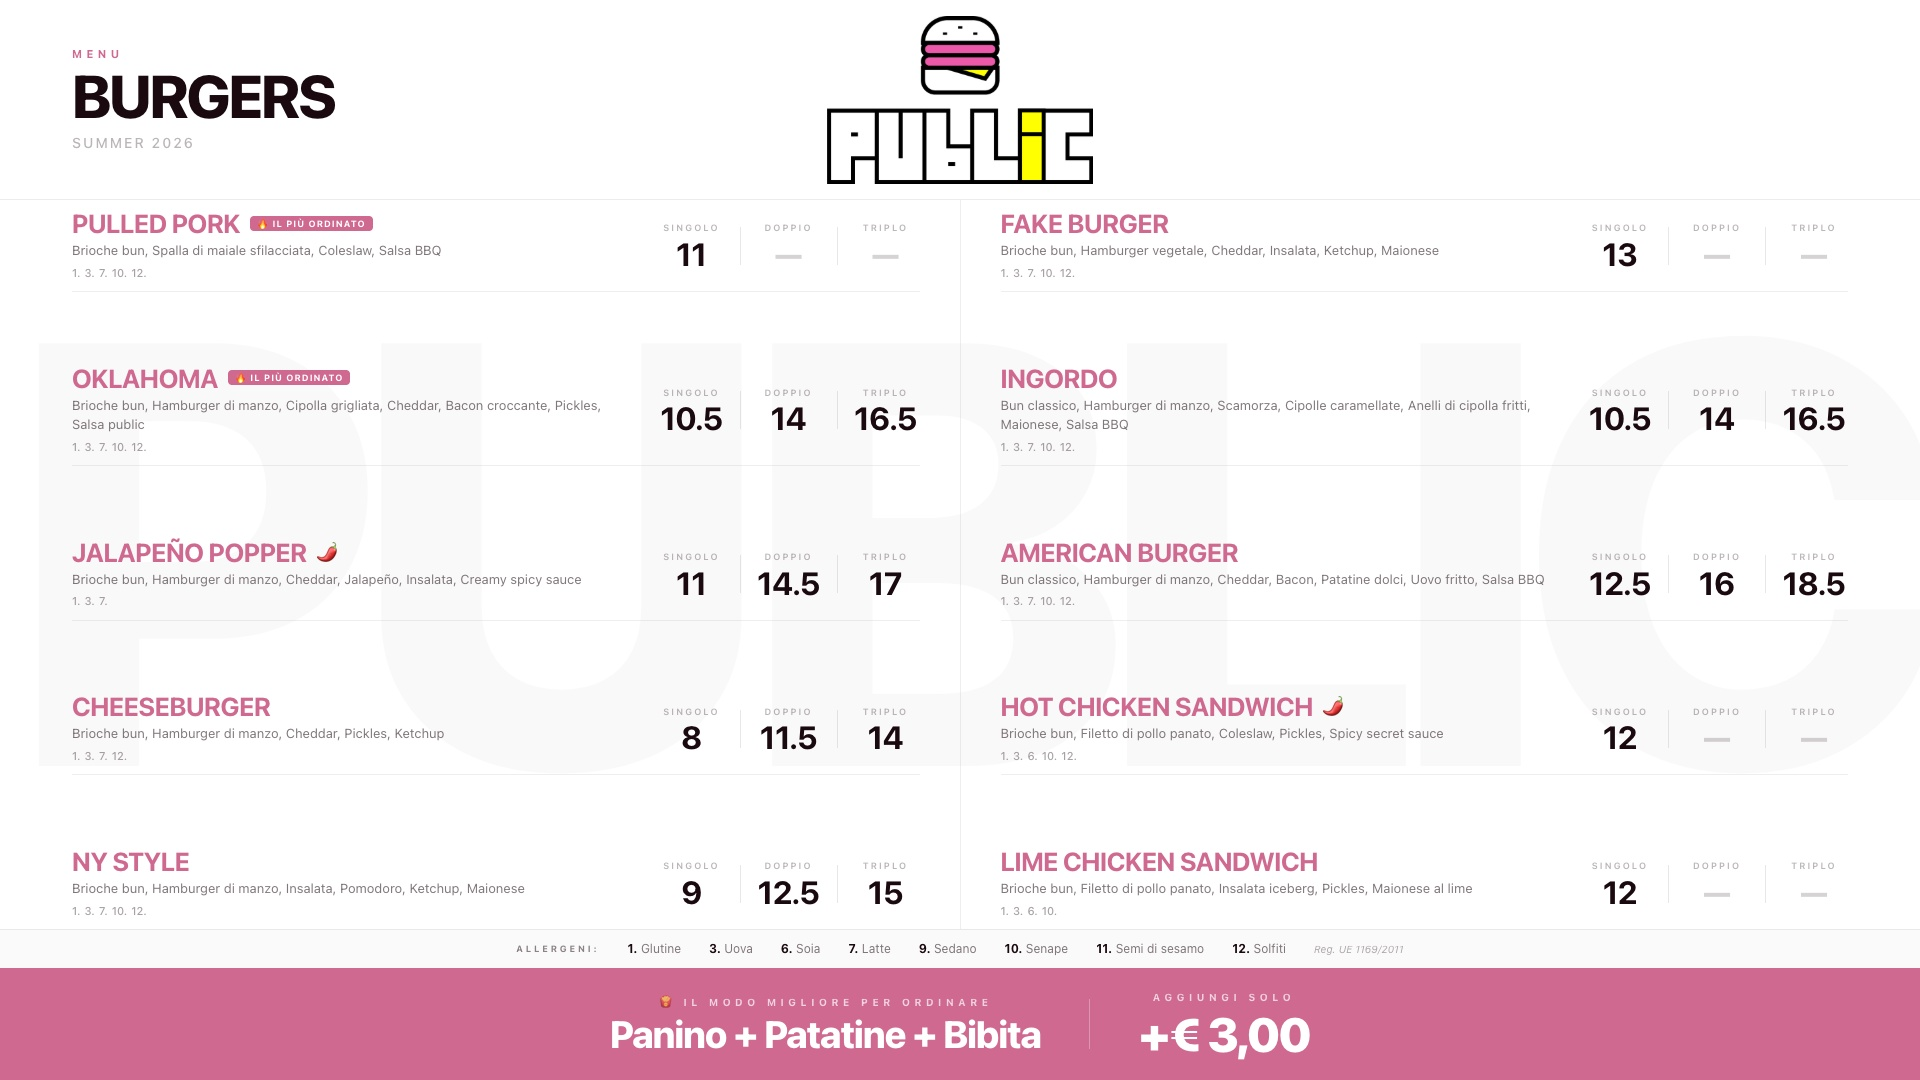
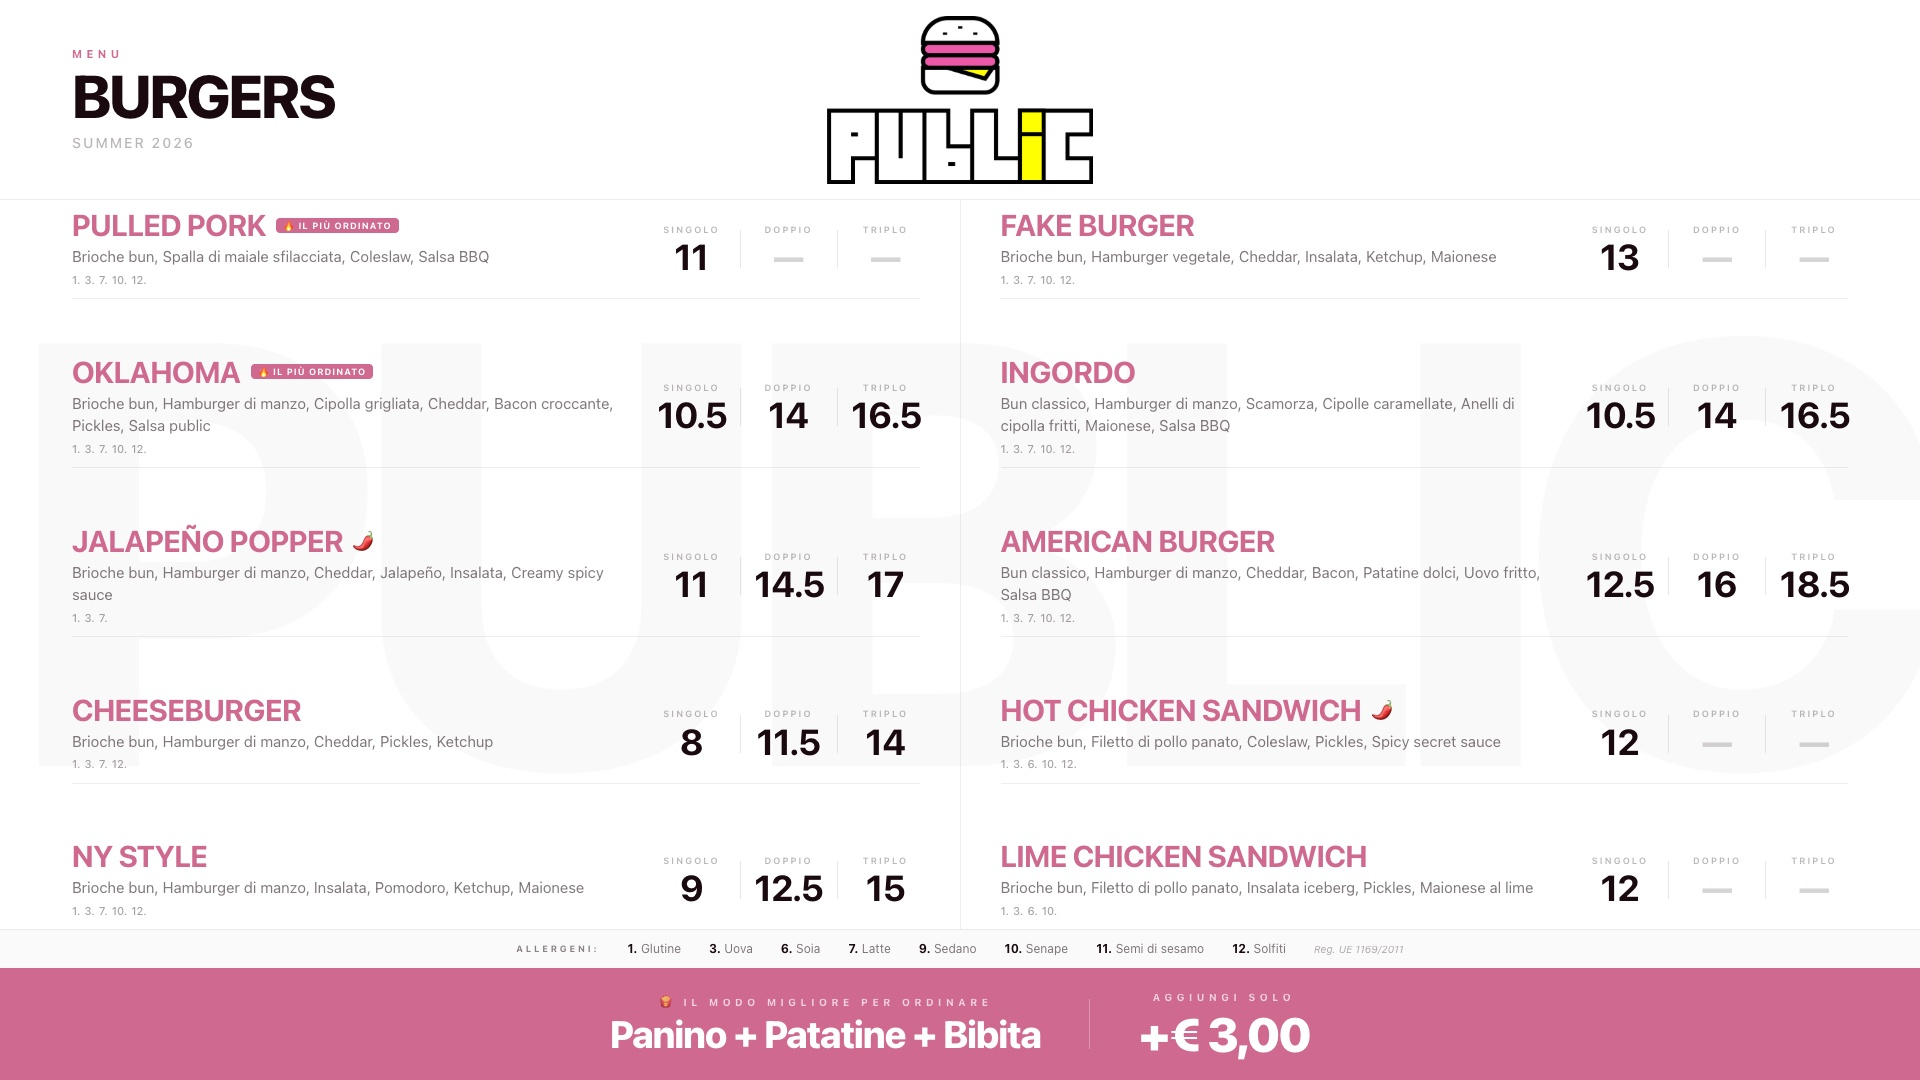
Increase text sizes for TV readability

diff --git a/src/MenuDisplay.tsx b/src/MenuDisplay.tsx
@@ -87,7 +87,7 @@ function BurgerItem({ burger }: { burger: typeof BURGERS[0] }) {
         {/* Name row */}
         <div style={{ display: 'flex', alignItems: 'center', gap: 10, marginBottom: 5 }}>
           <span style={{
-            fontSize: 26, fontWeight: 700, color: PINK,
+            fontSize: 30, fontWeight: 700, color: PINK,
             textTransform: 'uppercase', letterSpacing: '-0.02em', lineHeight: 1,
           }}>
             {burger.name}
@@ -104,7 +104,7 @@ function BurgerItem({ burger }: { burger: typeof BURGERS[0] }) {
           {burger.spicy && <span style={{ fontSize: 16, lineHeight: 1, flexShrink: 0 }}>🌶</span>}
         </div>
         {/* Ingredients */}
-        <div style={{ fontSize: 13, color: MUTED, lineHeight: 1.5, fontWeight: 400 }}>
+        <div style={{ fontSize: 15, color: MUTED, lineHeight: 1.5, fontWeight: 400 }}>
           {burger.ingredients.join(', ')}
         </div>
         {/* Allergens below ingredients */}
@@ -130,7 +130,7 @@ function BurgerItem({ burger }: { burger: typeof BURGERS[0] }) {
                 {label}
               </div>
               <div style={{
-                fontSize: 32, fontWeight: 700,
+                fontSize: 36, fontWeight: 700,
                 color: value == null ? 'rgba(26,10,16,0.18)' : DARK,
                 letterSpacing: '-0.02em', lineHeight: 1,
               }}>
@@ -366,11 +366,11 @@ function Screen2() {
                 {f.name === 'Nuggets' ? (
                   <div style={{ flex: 1 }}>
                     <div style={{
-                      fontSize: 26, fontWeight: 700, color: PINK,
+                      fontSize: 30, fontWeight: 700, color: PINK,
                       textTransform: 'uppercase', letterSpacing: '-0.01em',
                       lineHeight: 1, marginBottom: 4,
                     }}>{f.name}</div>
-                    <div style={{ fontSize: 13, color: MUTED, marginBottom: 6 }}>{f.desc}</div>
+                    <div style={{ fontSize: 14, color: MUTED, marginBottom: 6 }}>{f.desc}</div>
                     <AllergenNums nums={FRIES_ALLERGENS[f.name] ?? []} />
                     {[
                       { label: '6 pz', price: '5' },
@@ -385,7 +385,7 @@ function Screen2() {
                           fontSize: 13, color: MUTED, fontWeight: 500,
                           letterSpacing: '0.05em', textTransform: 'uppercase',
                         }}>{label}</span>
-                        <span style={{ fontSize: 26, fontWeight: 700, color: DARK, lineHeight: 1 }}>{price}</span>
+                        <span style={{ fontSize: 30, fontWeight: 700, color: DARK, lineHeight: 1 }}>{price}</span>
                       </div>
                     ))}
                   </div>
@@ -393,15 +393,15 @@ function Screen2() {
                   <>
                     <div style={{ flex: 1, minWidth: 0 }}>
                       <div style={{
-                        fontSize: 26, fontWeight: 700, color: PINK,
+                        fontSize: 30, fontWeight: 700, color: PINK,
                         textTransform: 'uppercase', letterSpacing: '-0.01em',
                         lineHeight: 1, marginBottom: 4,
                       }}>{f.name}</div>
-                      <div style={{ fontSize: 13, color: MUTED }}>{f.desc}</div>
+                      <div style={{ fontSize: 14, color: MUTED }}>{f.desc}</div>
                       <AllergenNums nums={FRIES_ALLERGENS[f.name] ?? []} />
                     </div>
                     <span style={{
-                      fontSize: 32, fontWeight: 700, color: DARK,
+                      fontSize: 36, fontWeight: 700, color: DARK,
                       flexShrink: 0, lineHeight: 1, paddingTop: 2,
                     }}>
                       {f.price % 1 === 0 ? f.price : f.price.toFixed(1)}
@@ -428,13 +428,13 @@ function Screen2() {
               }}>
                 <div>
                   <span style={{
-                    fontSize: 26, fontWeight: 700, color: PINK,
+                    fontSize: 30, fontWeight: 700, color: PINK,
                     textTransform: 'uppercase', letterSpacing: '-0.01em', display: 'block', lineHeight: 1,
                     marginBottom: 4,
                   }}>{s}</span>
                   <AllergenNums nums={SALSE_ALLERGENS[s] ?? []} />
                 </div>
-                <span style={{ fontSize: 26, fontWeight: 700, color: DARK, lineHeight: 1, paddingTop: 2 }}>0.5</span>
+                <span style={{ fontSize: 30, fontWeight: 700, color: DARK, lineHeight: 1, paddingTop: 2 }}>0.5</span>
               </div>
             ))}
           </div>
@@ -456,10 +456,10 @@ function Screen2() {
                   display: 'flex', justifyContent: 'space-between', alignItems: 'center',
                 }}>
                   <span style={{
-                    fontSize: 26, fontWeight: 700, color: PINK,
+                    fontSize: 30, fontWeight: 700, color: PINK,
                     textTransform: 'uppercase', letterSpacing: '-0.01em',
                   }}>{d}</span>
-                  <span style={{ fontSize: 26, fontWeight: 700, color: DARK }}>
+                  <span style={{ fontSize: 30, fontWeight: 700, color: DARK }}>
                     {price % 1 === 0 ? price : price.toFixed(1)}
                   </span>
                 </div>
